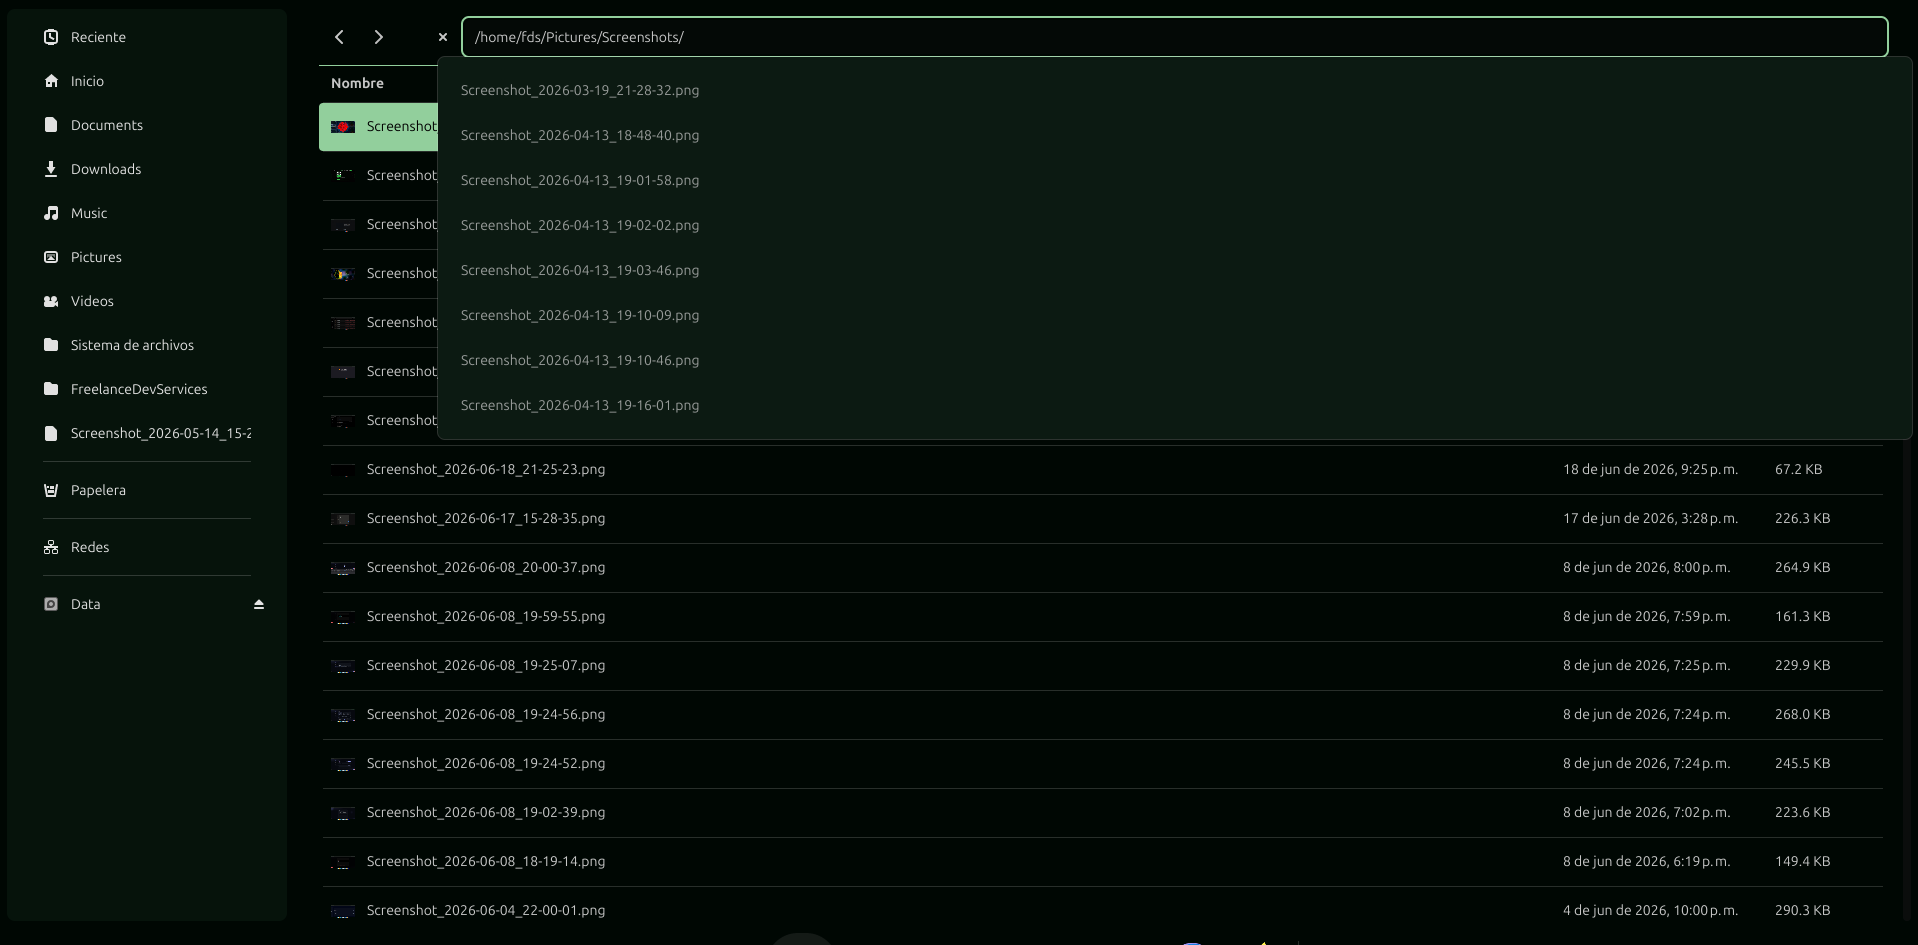
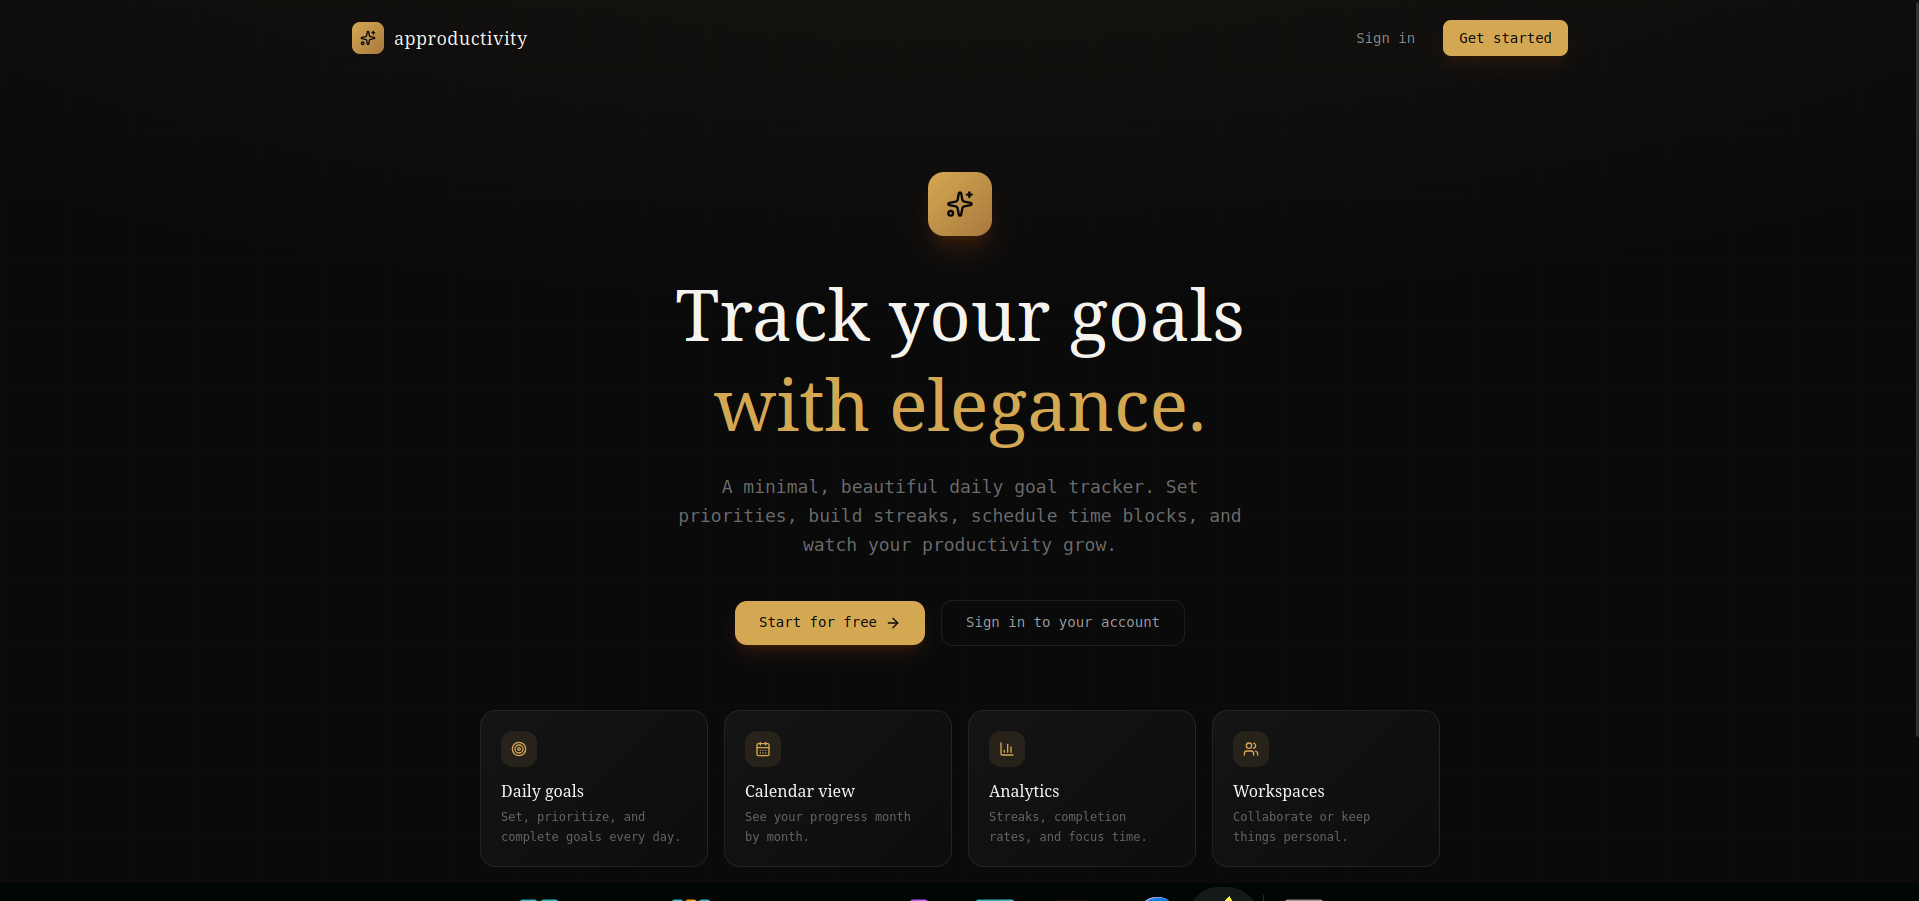
Fix approductivity URL + update screenshot

diff --git a/index.html b/index.html
@@ -230,7 +230,7 @@
             <h3>Productividad</h3>
             <p>Daily goal tracker with workspaces, built-in timer, drag-to-schedule timeline, analytics, and automatic carry-over. Full-stack SaaS with themes, i18n, and shared team workspaces.</p>
             <div class="chips"><span>Next.js</span><span>MongoDB</span><span>NextAuth</span><span>Tailwind</span><span>Framer Motion</span></div>
-            <a class="view" href="https://approductivity.vercel.app/approductivity" target="_blank" rel="noopener">View live →</a>
+            <a class="view" href="https://approductivity.vercel.app" target="_blank" rel="noopener">View live →</a>
           </div>
         </div>
         <div class="project-card">
